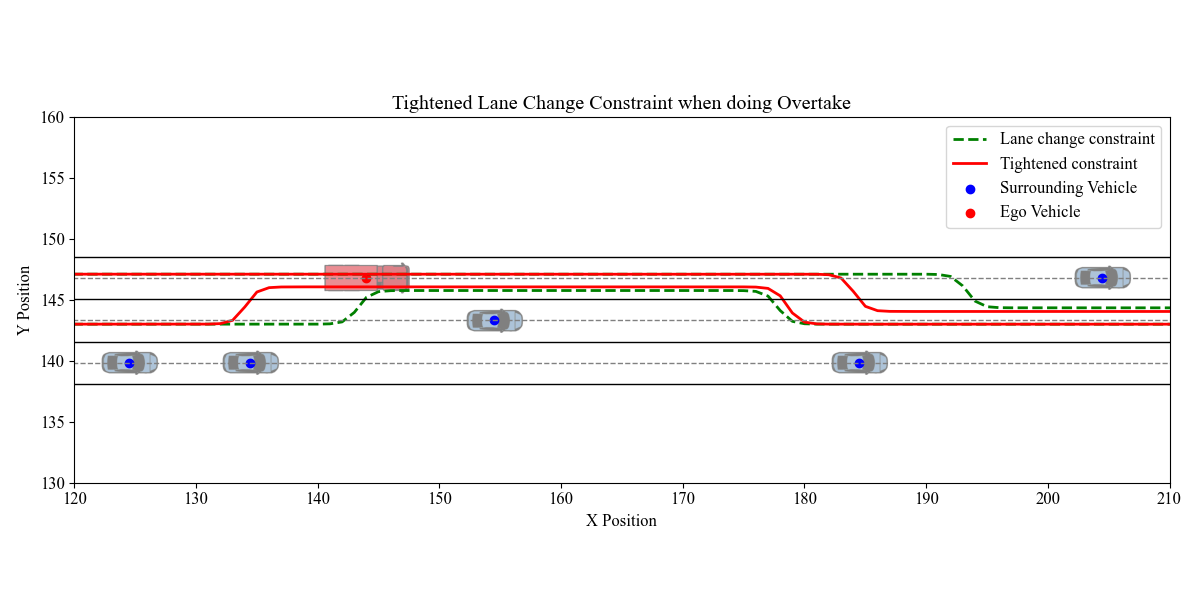
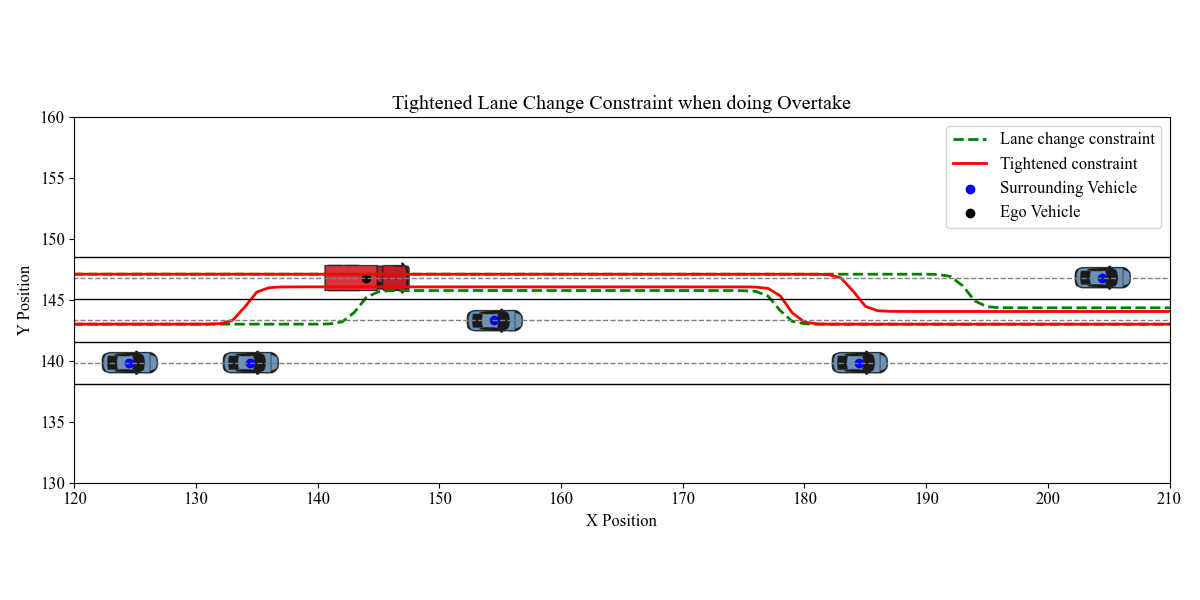
update plot

diff --git a/util/utils.py b/util/utils.py
@@ -1153,9 +1153,9 @@ def plot_tanhConstraint(i, X_traffic, traffic,constraint_laneChange,paramLog,dec
                 top = X_traffic[1,i,j]+width/2
                 bottom = X_traffic[1,i,j]-width/2
                 extent = [left, right, bottom, top]
-                ax.imshow(img, extent=extent, alpha=0.5)
+                ax.imshow(img, extent=extent, alpha=0.9)
                 #! legend : Egovehicle
-                plt.scatter(X_traffic[0,i,j],X_traffic[1,i,j],color = 'r',label='Ego Vehicle')
+                plt.scatter(X_traffic[0,i,j],X_traffic[1,i,j],color = 'k',label='Ego Vehicle')
 
             else:
                 leadWidth,leadLength = 2.032, 4.78536
@@ -1167,7 +1167,7 @@ def plot_tanhConstraint(i, X_traffic, traffic,constraint_laneChange,paramLog,dec
                 top = X_traffic[1,i,j]+width/2
                 bottom = X_traffic[1,i,j]-width/2
                 extent = [left, right, bottom, top]
-                ax.imshow(img, extent=extent, alpha=0.5)
+                ax.imshow(img, extent=extent, alpha=0.9)
                 if j == 0:
                     plt.scatter(X_traffic[0,i,j],X_traffic[1,i,j],color = 'b',label='Surrounding Vehicle')
                 else:

diff --git a/Mid_Term_Test/test_distribution_plot.py b/Mid_Term_Test/test_distribution_plot.py
@@ -134,7 +134,7 @@ for idx, N in enumerate(time_steps):
         top = mean_N[1] + height / 2
 
         extent = [left, right, bottom, top]
-        ax.imshow(img, extent=extent, alpha=0.3)
+        ax.imshow(img, extent=extent, alpha=0.9)
 
         
     else:
@@ -148,7 +148,7 @@ for idx, N in enumerate(time_steps):
         top = mean_N[1] + height / 2
 
         extent = [left, right, bottom, top]
-        ax.imshow(img, extent=extent, alpha=0.3)
+        ax.imshow(img, extent=extent, alpha=0.9)
 
     # Ellipse parameters for 95% confidence
     ellipse_width_N = 2 * np.sqrt(3 * scaled_sigma_x_squared_N)

diff --git a/Mid_Term_Test/test_plotConstraint.py b/Mid_Term_Test/test_plotConstraint.py
@@ -62,7 +62,7 @@ R_0[3,3]=(1/180*np.pi)**2
 P0, _, possibility = set_stochastic_mpc_params()
 vehicleADV.setStochasticMPCParams(P0, Q_0, possibility)
 
-trailing_plot = False
+trailing_plot = True
 
 
 if trailing_plot:
